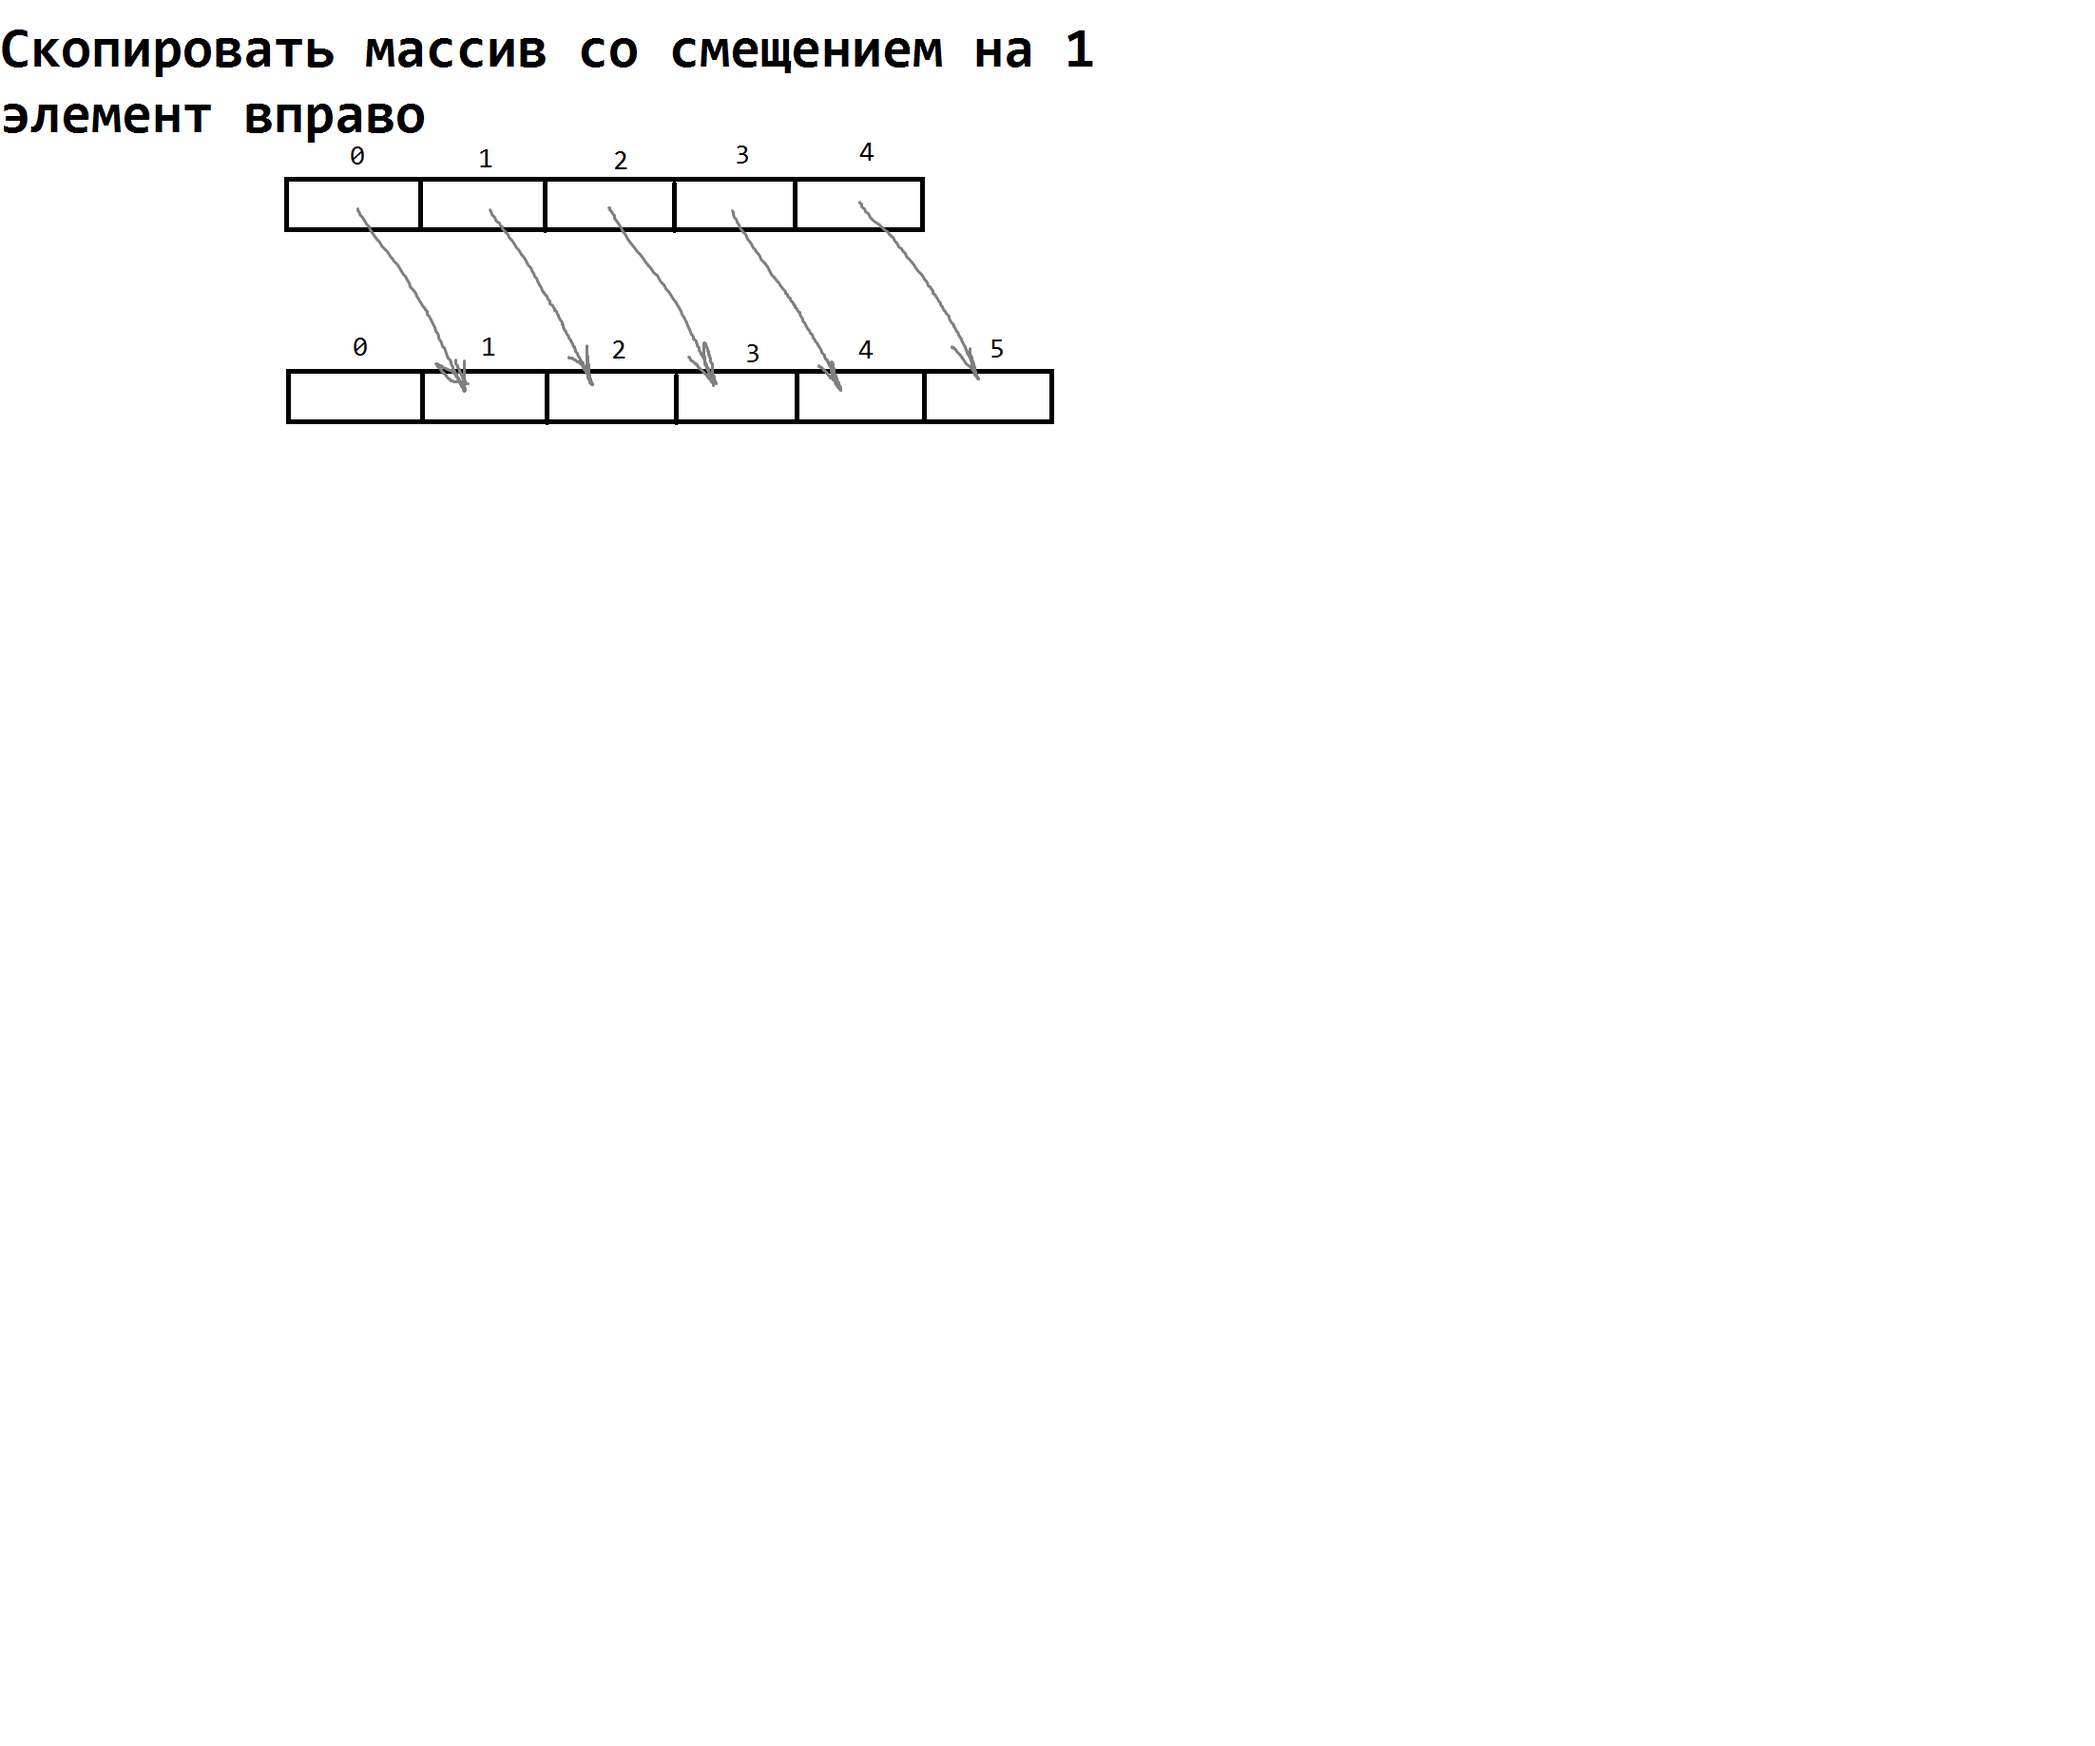
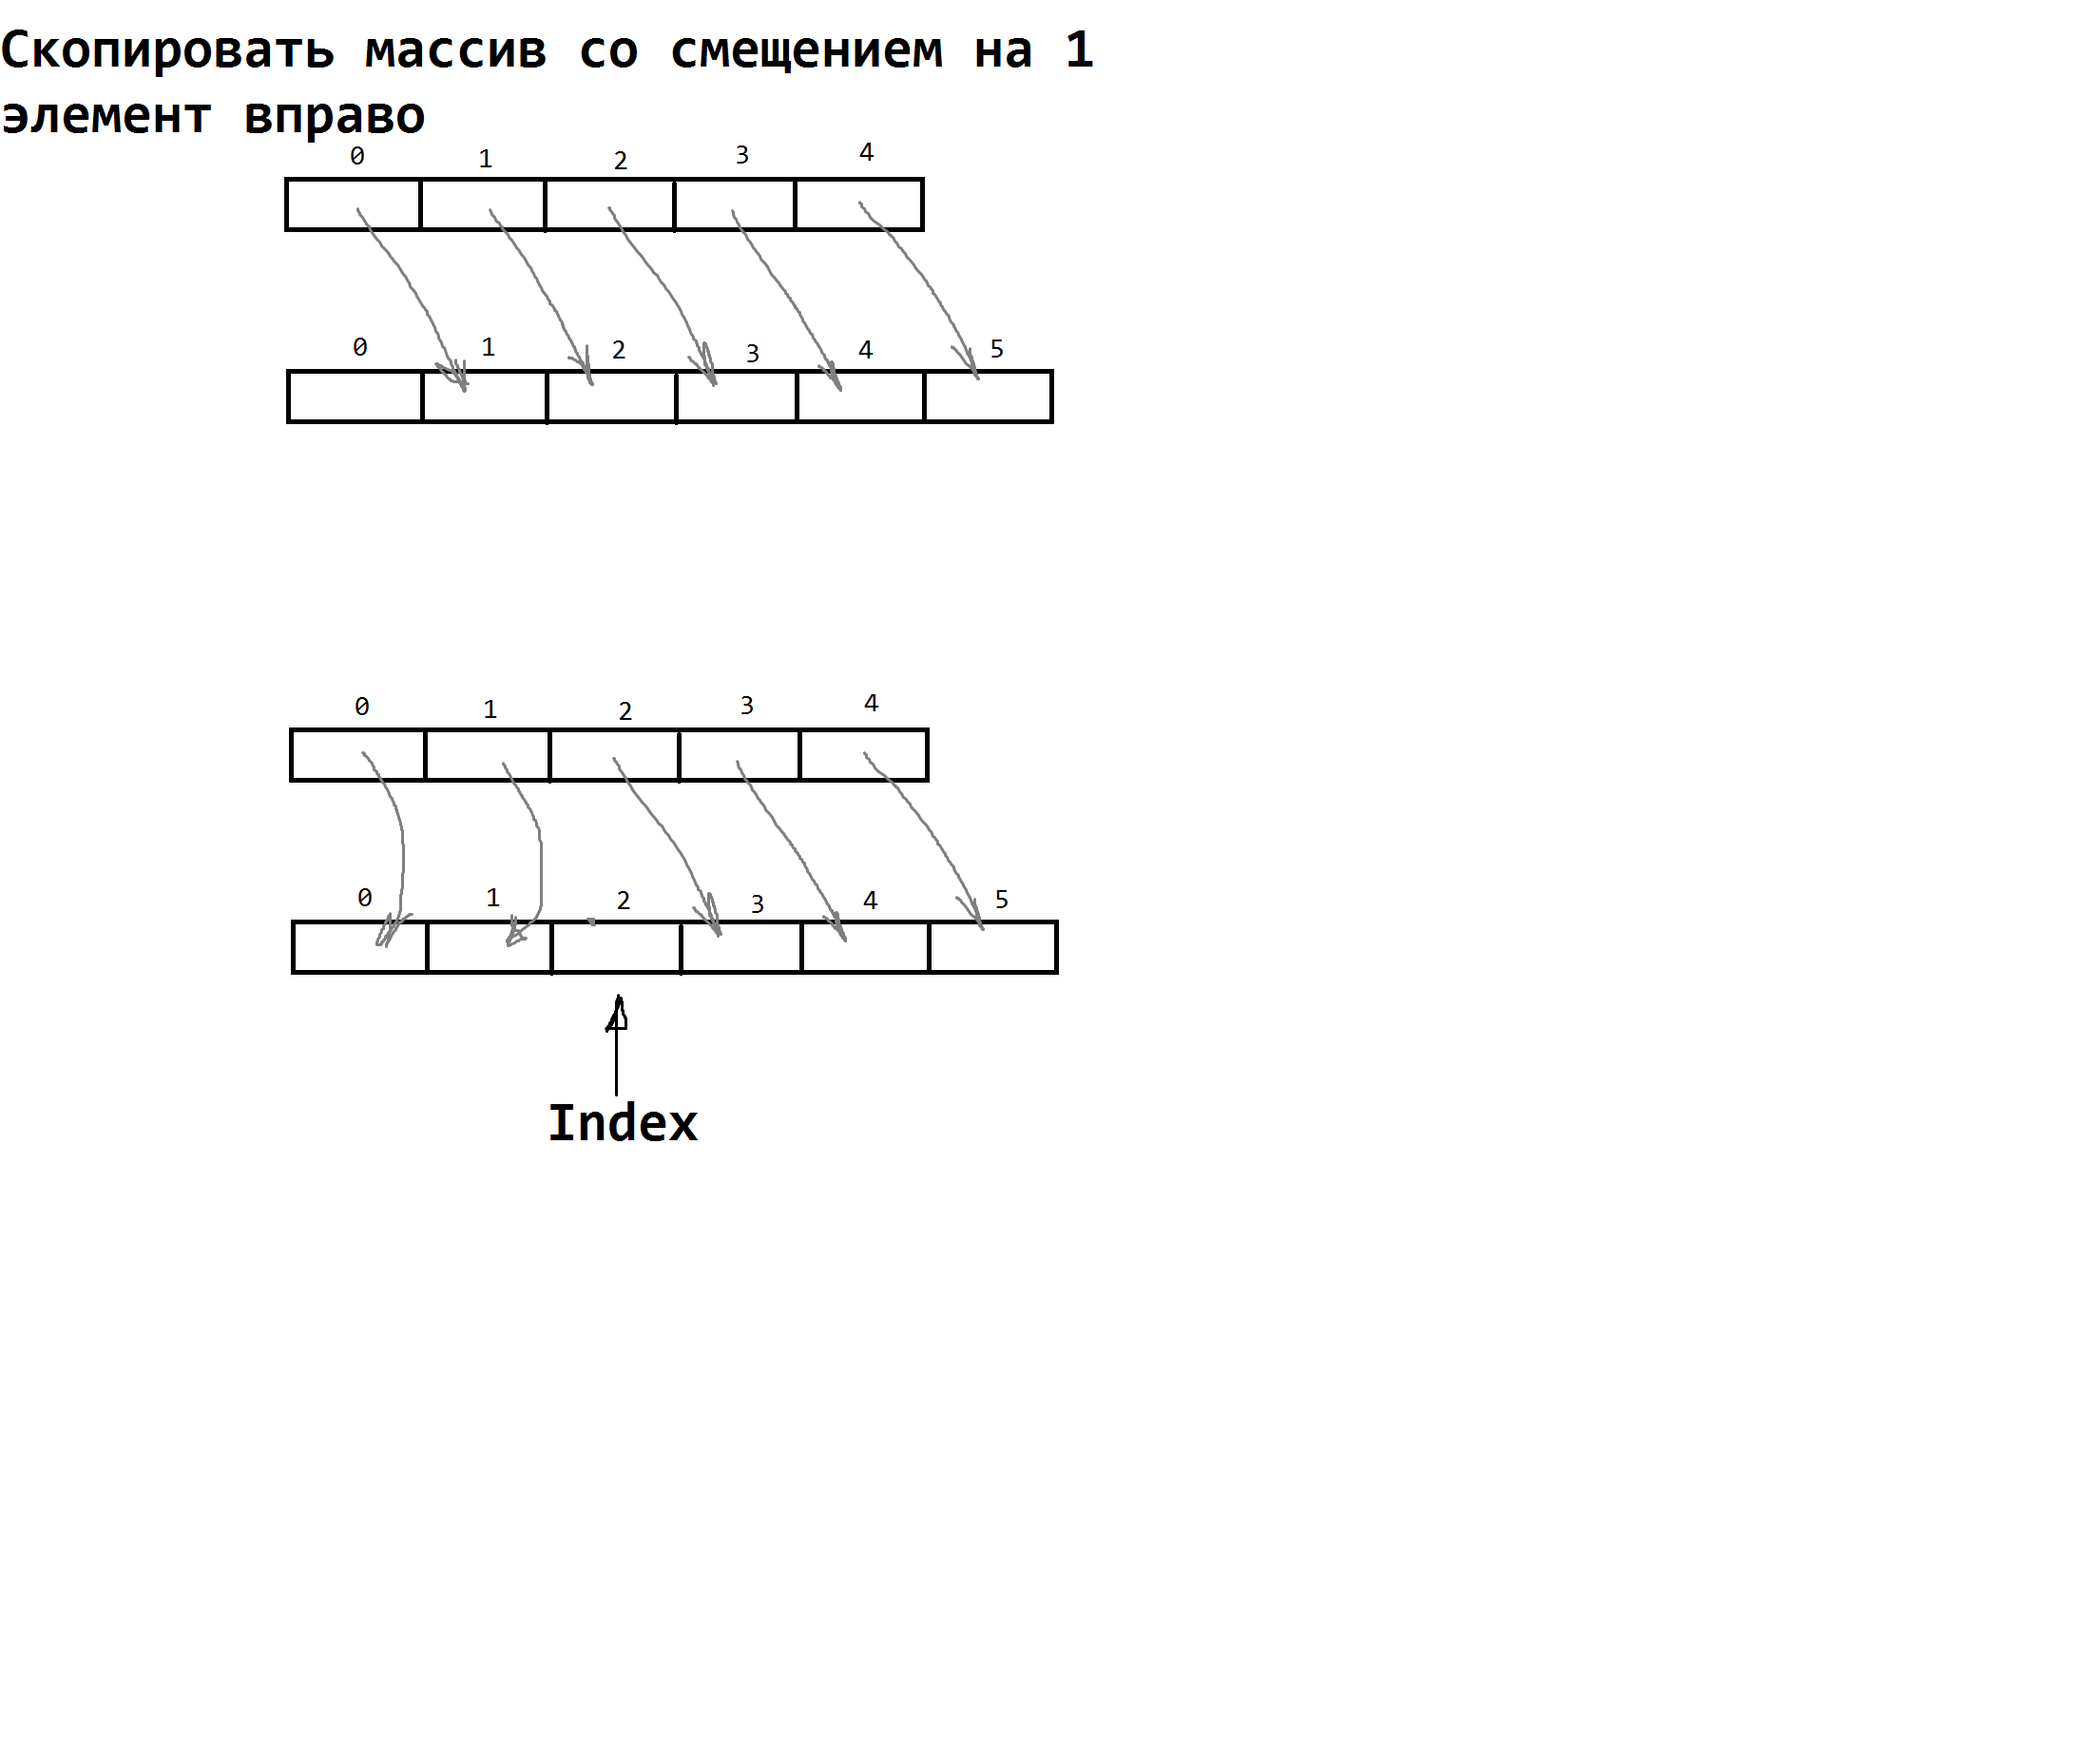
DynamicMemory2

Changed region(s): [[0.1543, 0.4036, 0.4319, 0.4657], [0.1234, 0.4967, 0.5245, 0.5588], [0.2468, 0.6209, 0.3394, 0.652]]

diff --git a/Pointers/DynamicMemory/main.cpp b/Pointers/DynamicMemory/main.cpp
@@ -4,19 +4,26 @@ using namespace std;
 #define tab "\t"
 
 void FillRand(int arr[], const int n);
+void FillRand(int** arr, const int m, const int n);
 void Print(int arr[], const int n);
+void Print(int** arr, const int m, const int n);
 
 void push_back(int*& arr, int& n, int value);
 void push_front(int*& arr, int& n, int value);
+void insert(int*& arr, int& n, int value, int index);
 
 void pop_back(int*& arr, int& n);	//Удаляет элемент с конца массива
 void pop_front(int*& arr, int& n);
+void erase(int*& arr, int& n, int index);
 
 //#define PUSH_BACK
+//#define DYNAMIC_MEMORY_1
+#define DYNAMIC_MEMORY_2
 
 void main()
 {
 	setlocale(LC_ALL, "");
+#ifdef DYNAMIC_MEMORY_1
 	int n;
 	cout << "Введите размер массива: "; cin >> n;
 	int* arr = new int[n] {};
@@ -47,9 +54,51 @@ void main()
 	push_front(arr, n, value);
 	Print(arr, n);
 
+	int index;
+	cout << "Введите добавляемое значение: "; cin >> value;
+	cout << "Введите индекс добавляемого элемента: "; cin >> index;
+	insert(arr, n, value, index);
+	Print(arr, n);
+
 	cout << "Удаление последнего элемента:\n";
 	pop_back(arr, n);
 	Print(arr, n);
+	cout << "Введите индекс удавляемого элемента: "; cin >> index;
+	erase(arr, n, index);
+	Print(arr, n);
+	delete[] arr;
+#endif // DYNAMIC_MEMORY_1
+	/////////////////////////////////////////////////////////////////////////////////////////////
+	///////////////////		ОБЪЯВЛЕНИЕ ДВУМЕРНОГО ДИНАМИЧЕСКОГО МАССИВА		/////////////////////
+	/////////////////////////////////////////////////////////////////////////////////////////////
+	int m;	//Количество строк
+	int n;	//Количество элементов cтроки
+	cout << "Введите количество строк: "; cin >> m;
+	cout << "Введите количество элементов строки: "; cin >> n;
+	//1)Создаем массив указателей, и сохраняем его адрес в указатель на указатель:
+	int** arr = new int*[m];
+	//2)Выделяем память под строки двумерного массива:
+	for (int i = 0; i < m; i++)
+	{
+		arr[i] = new int[n] {};
+	}
+
+	/////////////////////////////////////////////////////////////////////////////////////////////
+	/////////////////		ИСПОЛЬЗОВАНИЕ ДВУМЕРНОГО ДИНАМИЧЕСКОГО МАССИВА		/////////////////
+	/////////////////////////////////////////////////////////////////////////////////////////////
+	
+	FillRand(arr, m, n);
+	Print(arr, m, n);
+
+	/////////////////////////////////////////////////////////////////////////////////////////////
+	////////////////////		УДАЛЕНИЕ ДВУМЕРНОГО ДИНАМИЧЕСКОГО МАССИВА		/////////////////
+	/////////////////////////////////////////////////////////////////////////////////////////////
+	//1) Удаление строк:
+	for (int i = 0; i < m; i++)
+	{
+		delete[] arr[i];
+	}
+	//2) Удаление массива указателей:
 	delete[] arr;
 }
 void FillRand(int arr[], const int n)
@@ -59,6 +108,16 @@ void FillRand(int arr[], const int n)
 		arr[i] = rand() % 100;
 	}
 }
+void FillRand(int** arr, const int m, const int n)
+{
+	for (int i = 0; i < m; i++)
+	{
+		for (int j = 0; j < n; j++)
+		{
+			arr[i][j] = rand() % 100;
+		}
+	}
+}
 void Print(int arr[], const int n)
 {
 	for (int i = 0; i < n; i++)
@@ -66,6 +125,17 @@ void Print(int arr[], const int n)
 		cout << arr[i] <<tab;
 	}
 	cout << endl;
+}
+void Print(int** arr, const int m, const int n)
+{
+	for (int i = 0; i < m; i++)
+	{
+		for (int j = 0; j < n; j++)
+		{
+			cout << arr[i][j] << tab;
+		}
+		cout << endl;
+	}
 }
 
 void push_back(int*& arr, int& n, int value)
@@ -97,6 +167,26 @@ void push_front(int*& arr, int& n, int value)
 	arr[0] = value;
 	n++;
 }
+void insert(int*& arr, int& n, int value, int index)
+{
+	int* buffer = new int[n + 1]{};
+	/*for (int i = 0; i < index; i++)
+		buffer[i] = arr[i];
+	for (int i = index; i < n; i++)
+		buffer[i + 1] = arr[i];*/
+	for (int i = 0; i < n; i++)
+	{
+		true;
+		if (i < index)buffer[i] = arr[i];else buffer[i + 1] = arr[i];
+		//(i < index) ? buffer[i] = arr[i] : buffer[i + 1] = arr[i];
+		//(i < index ? buffer[i] : buffer[i + 1]) = arr[i];
+		buffer[i < index ? i : i + 1] = arr[i];
+	}
+	delete[] arr;
+	arr = buffer;
+	arr[index] = value;
+	n++;
+}
 
 void pop_back(int*& arr, int& n)
 {
@@ -113,4 +203,24 @@ void pop_back(int*& arr, int& n)
 void pop_front(int*& arr, int& n)
 {
 	
+}
+
+void erase(int*& arr, int& n, int index)
+{
+	int* buffer = new int[--n]{};
+	/*for (int i = 0; i < index; i++)
+	{
+		buffer[i] = arr[i];
+	}
+	for (int i = index; i < n; i++)
+	{
+		buffer[i] = arr[i + 1];
+	}*/
+	for (int i = 0; i < n; i++)
+	{
+		//buffer[i] = i < index ? arr[i] : arr[i + 1];
+		buffer[i] = arr[i < index ? i : i + 1];
+	}
+	delete[] arr;
+	arr = buffer;
 }
